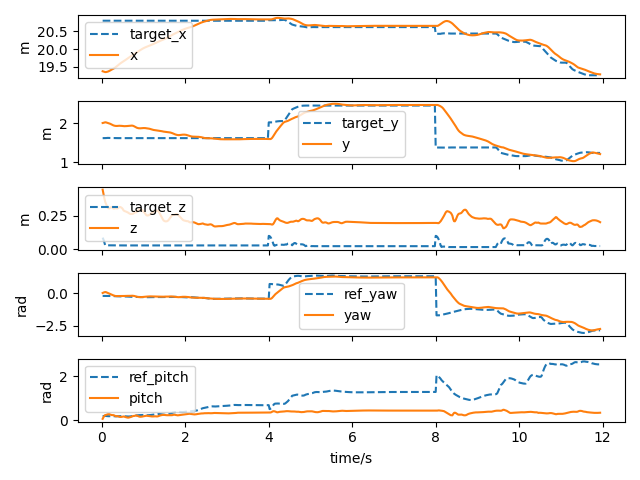
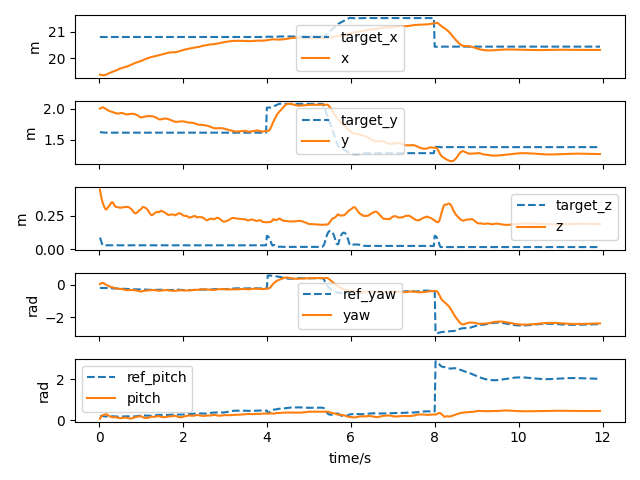
fix: action buf

diff --git a/legged_gym/legged_gym/envs/go1g/go1gbox.py b/legged_gym/legged_gym/envs/go1g/go1gbox.py
@@ -122,30 +122,37 @@ class Go1GB(BaseTask):
         Args:
             actions (torch.Tensor): Tensor of shape (num_envs, num_actions_per_env)
         """
-        #wqwqwq
-        actions = self.policy(self.lowlevel_obs_buf.detach(), hist_encoding=True, scandots_latent=None)
-        actions = self.reindex(actions)
+        # highlevel actions
         actions.to(self.device)
         self.action_history_buf = torch.cat([self.action_history_buf[:, 1:].clone(), actions[:, None, :].clone()], dim=1)
-        if self.cfg.domain_rand.action_delay:
-            if self.global_counter % self.cfg.domain_rand.delay_update_global_steps == 0:
-                if len(self.cfg.domain_rand.action_curr_step) != 0:
-                    self.delay = torch.tensor(self.cfg.domain_rand.action_curr_step.pop(0), device=self.device, dtype=torch.float)
-            if self.viewer:
-                self.delay = torch.tensor(self.cfg.domain_rand.action_delay_view, device=self.device, dtype=torch.float)
-            indices = -self.delay -1
-            actions = self.action_history_buf[:, indices.long()] # delay for 1/50=20ms
+        clip_actions = 3
+        self.actions = torch.clip(actions, -clip_actions, clip_actions).to(self.device)
+
+        # lowlevel actions
+        lowlevel_actions = self.policy(self.lowlevel_obs_buf.detach(), hist_encoding=True, scandots_latent=None)
+        lowlevel_actions = self.reindex(lowlevel_actions)
+        lowlevel_actions.to(self.device)
+        self.lowlevel_action_history_buf = torch.cat([self.lowlevel_action_history_buf[:, 1:].clone(), lowlevel_actions[:, None, :].clone()], dim=1)
+
+        # if self.cfg.domain_rand.action_delay:
+        #     if self.global_counter % self.cfg.domain_rand.delay_update_global_steps == 0:
+        #         if len(self.cfg.domain_rand.action_curr_step) != 0:
+        #             self.delay = torch.tensor(self.cfg.domain_rand.action_curr_step.pop(0), device=self.device, dtype=torch.float)
+        #     if self.viewer:
+        #         self.delay = torch.tensor(self.cfg.domain_rand.action_delay_view, device=self.device, dtype=torch.float)
+        #     indices = -self.delay -1
+        #     lowlevel_actions = self.lowlevel_action_history_buf[:, indices.long()] # delay for 1/50=20ms
 
         self.global_counter += 1
         self.total_env_steps_counter += 1
-        clip_actions = self.cfg.normalization.clip_actions / self.cfg.control.action_scale
-        self.actions = torch.clip(actions, -clip_actions, clip_actions).to(self.device)
+        clip_lowlevel_actions = self.cfg.normalization.clip_actions / self.cfg.control.action_scale
+        self.lowlevel_actions = torch.clip(lowlevel_actions, -clip_lowlevel_actions, clip_lowlevel_actions).to(self.device)
         self.render()
 
         for _ in range(self.cfg.control.decimation):
-            actions_tmp = self.actions.clone()
-            actions = torch.cat((actions_tmp,actions_tmp[:,-1:]),dim=1)  # repeat last element to control both fingers
-            self.torques = self._compute_torques(actions).view(self.torques.shape)
+            lowlevel_actions_tmp = self.lowlevel_actions.clone()
+            lowlevel_actions = torch.cat((lowlevel_actions_tmp,lowlevel_actions_tmp[:,-1:]),dim=1)  # repeat last element to control both fingers
+            self.torques = self._compute_torques(lowlevel_actions).view(self.torques.shape)
             self.gym.set_dof_actuation_force_tensor(self.sim, gymtorch.unwrap_tensor(self.torques))
             self.gym.simulate(self.sim)
             self.gym.fetch_results(self.sim, True)
@@ -154,14 +161,17 @@ class Go1GB(BaseTask):
 
         clip_obs = self.cfg.normalization.clip_observations
         self.lowlevel_obs_buf = torch.clip(self.lowlevel_obs_buf, -clip_obs, clip_obs)
-        if self.privileged_lowlevel_obs_buf is not None:
-            self.privileged_lowlevel_obs_buf = torch.clip(self.privileged_lowlevel_obs_buf, -clip_obs, clip_obs)
+        self.obs_buf = torch.clip(self.obs_buf, -clip_obs, clip_obs)
+
+        if self.privileged_obs_buf is not None:
+            self.privileged_obs_buf = torch.clip(self.privileged_obs_buf, -clip_obs, clip_obs)
         self.extras["delta_yaw_ok"] = self.delta_yaw < 0.6
         if self.cfg.depth.use_camera and self.global_counter % self.cfg.depth.update_interval == 0:
             self.extras["depth"] = self.depth_buffer[:, -2]  # have already selected last one
         else:
             self.extras["depth"] = None
-        return self.lowlevel_obs_buf, self.privileged_lowlevel_obs_buf, self.rew_buf, self.reset_buf, self.extras
+        
+        return self.lowlevel_obs_buf, self.privileged_obs_buf, self.rew_buf, self.reset_buf, self.extras
 
     def get_history_observations(self):
         return self.obs_history_buf
@@ -288,6 +298,7 @@ class Go1GB(BaseTask):
         self.compute_observations() # in some cases a simulation step might be required to refresh some obs (for example body positions)
 
         self.last_actions[:] = self.actions[:]
+        self.last_lowlevel_actions[:] = self.lowlevel_actions[:]
         self.last_dof_vel[:] = self.dof_vel[:]
         self.last_torques[:] = self.torques[:]
         self.last_root_vel[:] = self.root_states[:, 7:13]
@@ -357,14 +368,17 @@ class Go1GB(BaseTask):
 
         # reset buffers
         self.last_actions[env_ids] = 0.
+        self.last_lowlevel_actions[env_ids] = 0.        
         self.last_dof_vel[env_ids] = 0.
         self.last_torques[env_ids] = 0.
         self.last_root_vel[:] = 0.
         self.feet_air_time[env_ids] = 0.
         self.reset_buf[env_ids] = 1
         self.obs_history_buf[env_ids, :, :] = 0.  # reset obs history buffer TODO no 0s
+        self.lowlevel_obs_history_buf[env_ids, :, :] = 0.  # reset obs history buffer TODO no 0s        
         self.contact_buf[env_ids, :, :] = 0.
         self.action_history_buf[env_ids, :, :] = 0.
+        self.lowlevel_action_history_buf[env_ids, :, :] = 0.        
         self.cur_goal_idx[env_ids] = 0
         self.reach_goal_timer[env_ids] = 0
 
@@ -404,15 +418,21 @@ class Go1GB(BaseTask):
             self.rew_buf += rew
             self.episode_sums["termination"] += rew
     
-    def compute_observations(self):
+    def compute_lowlevel_observations(self):
         """ 
         Computes observations
         """
         imu_obs = torch.stack((self.roll, self.pitch), dim=1)
-        if self.global_counter % 5 == 0:  # = actions[:,something] wqwqwq
+        if self.global_counter % 5 == 0:
             self.delta_yaw = self.target_yaw - self.yaw
             self.delta_pitch = self.target_pitch - self.pitch
             self.delta_position = self.base_target_pos
+
+        # if self.global_counter % 5 == 0:
+        #     self.delta_yaw = self.actions[:,0]  # self.target_yaw - self.yaw
+        #     self.delta_pitch = self.actions[:,1]  # self.target_pitch - self.pitch
+        #     self.delta_position = self.actions[:,2:5]  # self.base_target_pos
+        #     self.close_cmd = self.actions[:,-1]
 
         # replace real obs to the output of the highlevel policy
         lowlevel_obs_buf = torch.cat((#skill_vector, 
@@ -426,7 +446,7 @@ class Go1GB(BaseTask):
                             (self.env_class == 17).float()[:, None], #1
                             self.reindex((self.dof_pos - self.default_dof_pos_all) * self.obs_scales.dof_pos),  #13 contain no passive dof
                             self.reindex(self.dof_vel * self.obs_scales.dof_vel),   #13
-                            self.reindex(self.action_history_buf[:, -1]),   #13
+                            self.reindex(self.lowlevel_action_history_buf[:, -1]),   #13
                             self.reindex_feet(self.contact_filt.float()-0.5),   #4
                             ),dim=-1)
         priv_explicit = torch.cat((self.base_lin_vel * self.obs_scales.lin_vel,
@@ -440,16 +460,64 @@ class Go1GB(BaseTask):
         ), dim=-1)
         if self.cfg.terrain.measure_heights:
             heights = torch.clip(self.root_states[:, 2].unsqueeze(1) - 0.3 - self.measured_heights, -1, 1.)
-            self.lowlevel_obs_buf = torch.cat([lowlevel_obs_buf, heights, priv_explicit, priv_latent, self.obs_history_buf.view(self.num_envs, -1)], dim=-1)
+            self.lowlevel_obs_buf = torch.cat([lowlevel_obs_buf, heights, priv_explicit, priv_latent, self.lowlevel_obs_history_buf.view(self.num_envs, -1)], dim=-1)
         else:
-            self.lowlevel_obs_buf = torch.cat([lowlevel_obs_buf, priv_explicit, priv_latent, self.obs_history_buf.view(self.num_envs, -1)], dim=-1)
+            self.lowlevel_obs_buf = torch.cat([lowlevel_obs_buf, priv_explicit, priv_latent, self.lowlevel_obs_history_buf.view(self.num_envs, -1)], dim=-1)
         # lowlevel_obs_buf[:, 6:8] = 0  # mask yaw in proprioceptive history
-        self.obs_history_buf = torch.where(
+        self.lowlevel_obs_history_buf = torch.where(
             (self.episode_length_buf <= 1)[:, None, None], 
             torch.stack([lowlevel_obs_buf] * self.cfg.env.history_len, dim=1),
             torch.cat([
-                self.obs_history_buf[:, 1:],
+                self.lowlevel_obs_history_buf[:, 1:],
                 lowlevel_obs_buf.unsqueeze(1)
+            ], dim=1)
+        )
+        
+    def compute_observations(self):
+        """ 
+        Computes observations
+        """
+        imu_obs = torch.stack((self.roll, self.pitch), dim=1)
+        if self.global_counter % 5 == 0:  # = actions[:,something] wqwqwq
+            self.delta_yaw = self.target_yaw - self.yaw
+            self.delta_pitch = self.target_pitch - self.pitch
+            self.delta_position = self.base_target_pos
+
+        # replace real obs to the output of the highlevel policy
+        obs_buf = torch.cat((#skill_vector, 
+                            self.base_ang_vel  * self.obs_scales.ang_vel,   #3
+                            imu_obs,    #2
+                            self.delta_yaw[:, None],    #1
+                            self.delta_pitch[:, None],   #1
+                            self.delta_position,  #3 local
+                            self.commands[:,-1:],  #1
+                            (self.env_class != 17).float()[:, None], #1
+                            (self.env_class == 17).float()[:, None], #1
+                            self.reindex((self.dof_pos - self.default_dof_pos_all) * self.obs_scales.dof_pos),  #13 contain no passive dof
+                            self.reindex(self.dof_vel * self.obs_scales.dof_vel),   #13
+                            self.reindex(self.lowlevel_action_history_buf[:, -1]),   #13
+                            self.reindex_feet(self.contact_filt.float()-0.5),   #4
+                            ),dim=-1)
+        priv_explicit = torch.cat((self.base_lin_vel * self.obs_scales.lin_vel,
+                                   0 * self.base_lin_vel,
+                                   0 * self.base_lin_vel), dim=-1)
+        priv_latent = torch.cat((
+            self.mass_params_tensor,
+            self.friction_coeffs_tensor,
+            self.motor_strength[0] - 1, 
+            self.motor_strength[1] - 1
+        ), dim=-1)
+        if self.cfg.terrain.measure_heights:
+            heights = torch.clip(self.root_states[:, 2].unsqueeze(1) - 0.3 - self.measured_heights, -1, 1.)
+            self.obs_buf = torch.cat([obs_buf, heights, priv_explicit, priv_latent, self.obs_history_buf.view(self.num_envs, -1)], dim=-1)
+        else:
+            self.obs_buf = torch.cat([obs_buf, priv_explicit, priv_latent, self.obs_history_buf.view(self.num_envs, -1)], dim=-1)
+        self.obs_history_buf = torch.where(
+            (self.episode_length_buf <= 1)[:, None, None], 
+            torch.stack([obs_buf] * self.cfg.env.history_len, dim=1),
+            torch.cat([
+                self.obs_history_buf[:, 1:],
+                obs_buf.unsqueeze(1)
             ], dim=1)
         )
         self.contact_buf = torch.where(
@@ -460,8 +528,9 @@ class Go1GB(BaseTask):
                 self.contact_filt.float().unsqueeze(1)
             ], dim=1)
         )
+        self.compute_lowlevel_observations()
         
-        
+          
     def get_noisy_measurement(self, x, scale):
         if self.cfg.noise.add_noise:
             x = x + (2.0 * torch.rand_like(x) - 1) * scale * self.cfg.noise.noise_level
@@ -792,7 +861,9 @@ class Go1GB(BaseTask):
         self.p_gains = torch.zeros(self.num_actions+self.num_dummy_dof, dtype=torch.float, device=self.device, requires_grad=False)
         self.d_gains = torch.zeros(self.num_actions+self.num_dummy_dof, dtype=torch.float, device=self.device, requires_grad=False)
         self.actions = torch.zeros(self.num_envs, self.num_actions, dtype=torch.float, device=self.device, requires_grad=False)
+        self.lowlevel_actions = torch.zeros(self.num_envs, self.num_actions, dtype=torch.float, device=self.device, requires_grad=False)
         self.last_actions = torch.zeros(self.num_envs, self.num_actions, dtype=torch.float, device=self.device, requires_grad=False)
+        self.last_lowlevel_actions = torch.zeros(self.num_envs, self.num_actions, dtype=torch.float, device=self.device, requires_grad=False)        
         self.last_dof_vel = torch.zeros_like(self.dof_vel)
         self.last_torques = torch.zeros_like(self.torques)
         self.last_root_vel = torch.zeros_like(self.root_states[:, 7:13])
@@ -803,7 +874,9 @@ class Go1GB(BaseTask):
         self.motor_strength = (str_rng[1] - str_rng[0]) * torch.rand(2, self.num_envs, self.num_actions+self.num_dummy_dof, dtype=torch.float, device=self.device, requires_grad=False) + str_rng[0]
         if self.cfg.env.history_encoding:
             self.obs_history_buf = torch.zeros(self.num_envs, self.cfg.env.history_len, self.cfg.env.n_proprio, device=self.device, dtype=torch.float)
+            self.lowlevel_obs_history_buf = torch.zeros(self.num_envs, self.cfg.env.history_len, self.cfg.env.n_proprio, device=self.device, dtype=torch.float)
         self.action_history_buf = torch.zeros(self.num_envs, self.cfg.domain_rand.action_buf_len, self.num_actions, device=self.device, dtype=torch.float)
+        self.lowlevel_action_history_buf = torch.zeros(self.num_envs, self.cfg.domain_rand.action_buf_len, self.num_actions, device=self.device, dtype=torch.float)
         self.contact_buf = torch.zeros(self.num_envs, self.cfg.env.contact_buf_len, 4, device=self.device, dtype=torch.float)
 
         self.commands = torch.zeros(self.num_envs, self.cfg.commands.num_commands, dtype=torch.float, device=self.device, requires_grad=False) # x vel, y vel, yaw vel, heading

diff --git a/TODO.md b/TODO.md
@@ -70,7 +70,7 @@ low-level policy (v2, blind, gripper position command)
     box state
     robot state
     action_history_buf
-+ 4. update action freq:
+4. update action freq:
     just use the lowlevel obs freq
 + 5. action space(cat observation space for lowlevel):     
     delta_yaw
@@ -78,5 +78,6 @@ low-level policy (v2, blind, gripper position command)
     delta_position
     gripper state
 6. step and lowlevel step
-
+    action clip
 self.commands seems useless
+lowlevel things dimensions
